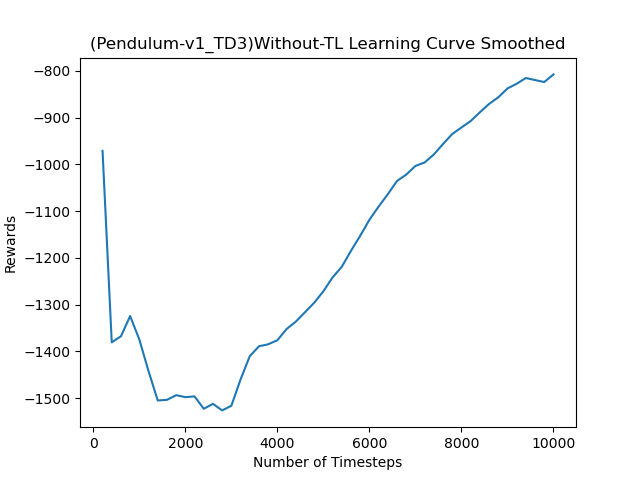
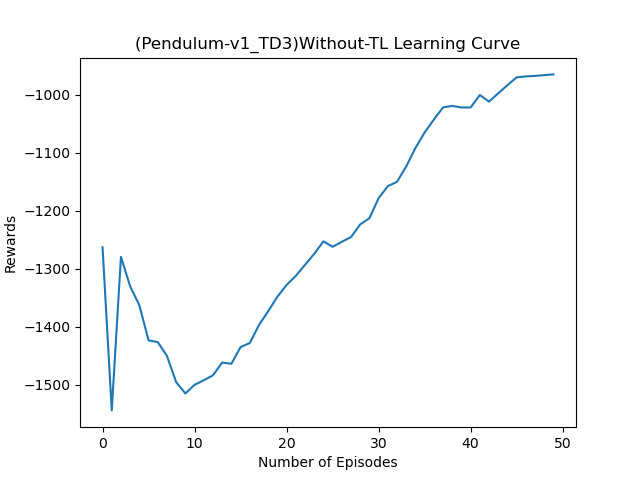
update result with episode result

diff --git a/tl/utils/plot_utils.py b/tl/utils/plot_utils.py
@@ -26,23 +26,23 @@ def moving_average(values, window):
     return np.convolve(values, weights, 'valid')
 
 
-def plot_results(log_folder, title='Learning Curve', moving_window=1):
+def plot_results(log_folder, title='Learning Curve', moving_window=-1):
     """
     plot the results
 
     :param log_folder: (str) the save location of the results to plot
     :param title: (str) the title of the task to plot
     """
-    x, y = ts2xy(load_results(log_folder), 'timesteps')
+    x, y = ts2xy(load_results(log_folder), 'episodes')
     y = moving_average(y, window=moving_window)
     # Truncate x
     x = x[len(x) - len(y):]
 
     fig = plt.figure(title)
     plt.plot(x, y)
-    plt.xlabel('Number of Timesteps')
+    plt.xlabel('Number of Episodes')
     plt.ylabel('Rewards')
-    plt.title(title + " Smoothed")
+    plt.title(title)
     plt.show()
 
 
